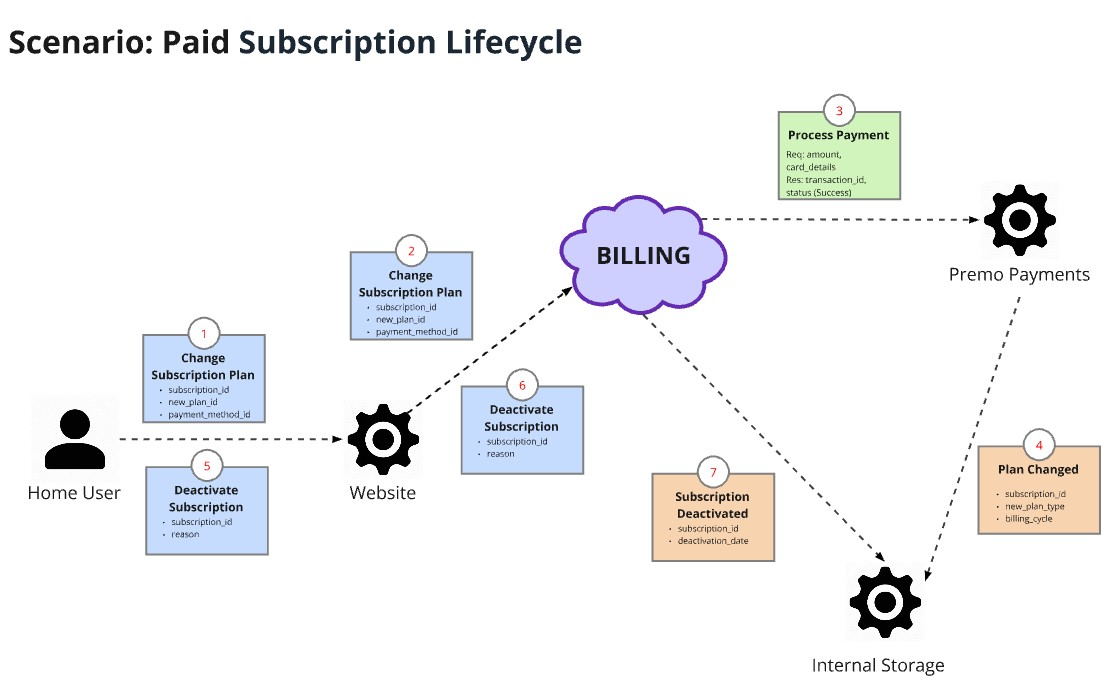
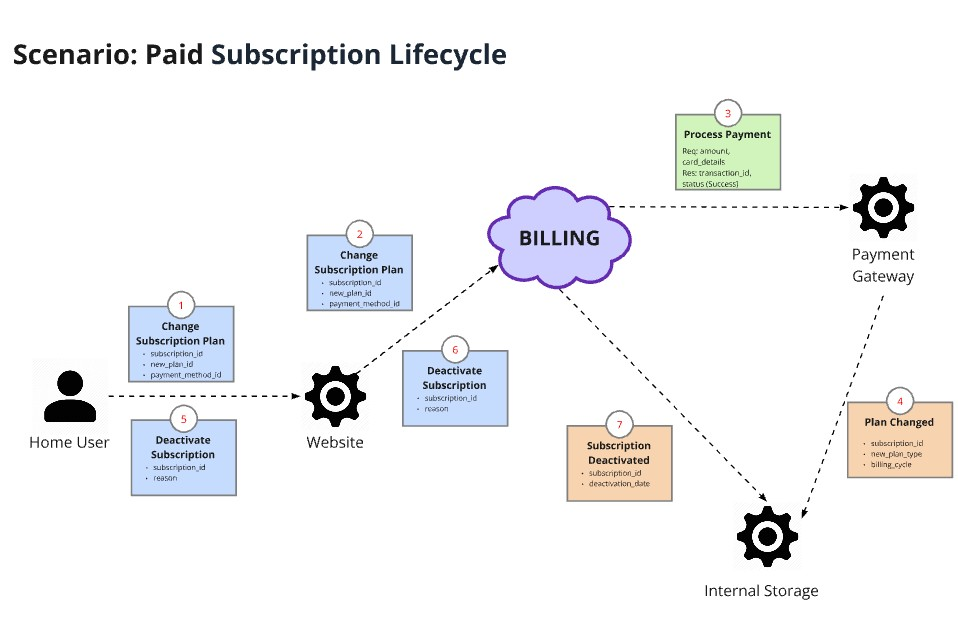
feat: add dmfm descriptions

diff --git a/chapters/chapter4.md b/chapters/chapter4.md
@@ -138,99 +138,165 @@ El tablero completo del  Candidate Context Discovery puede visualizarse en el si
 
 El Domain Message Flows Modeling mapea cómo los mensajes (eventos, comandos) fluyen entre los diferentes bounded contexts identificados. Este modelado es crucial para entender las dependencias y patrones de comunicación del sistema.
 
-Message Flows
+**User Registration and Access Activation**
+
 <p align="center">
 <img src="../assets/domain-message-flows/DMF1.jpg" alt="c4-container" width="700">
 </p>
+
+Esta vista muestra el workflow para el registro y activación de usuarios, destacando cómo el sistema IAM (Identity and Access Management) centraliza la seguridad y la gestión de sesiones. El proceso asegura el desacoplamiento de responsabilidades: la Website actúa como interfaz de captura, el IAM valida la identidad y el ciclo de vida de la cuenta, mientras que el Email Service gestiona la comunicación externa de forma independiente. Finalmente, el uso de tokens y la persistencia en el Internal Storage garantizan que solo los usuarios verificados obtengan acceso.
+
+**Login and Session Start**
 
 <p align="center">
 <img src="../assets/domain-message-flows/DMF2.jpg" alt="c4-container" width="700">
 </p>
 
+
+Esta vista detalla el proceso de Login e Inicio de Sesión, ilustrando cómo el sistema organiza la autenticación y la autorización mediante un componente central de IAM. El flujo comienza cuando el usuario proporciona sus credenciales a través de la Website, la cual delega la validación y la asignación de permisos por rol al IAM para garantizar un control de acceso seguro y centralizado. Una vez autenticado, el estado de la sesión se persiste en el Internal Storage, permitiendo que el usuario consulte servicios especializados como la Air Quality Evaluation en tiempo real, cuyas interacciones son registradas por el módulo de Analytics & Reporting para auditoría y análisis posterior.
+
+**Trial Subscription Lifecycle**
+
 <p align="center">
 <img src="../assets/domain-message-flows/DMF3.jpg" alt="c4-container" width="700">
 </p>
 
+Esta vista describe el ciclo de vida de una Suscripción de Prueba, mostrando cómo se gestiona la elegibilidad y activación mediante un servicio centralizado de Billing. El flujo comienza cuando el Home User solicita iniciar una prueba a través de la Website, la cual se encarga de validar la elegibilidad del usuario antes de procesar la solicitud con el módulo de facturación. Una vez que el servicio de Billing confirma el inicio de la suscripción, se genera un registro con el ID de suscripción y la fecha de expiración, información que se persiste finalmente en el Internal Storage para asegurar que el acceso temporal del usuario quede correctamente documentado y administrado.
+
+**Paid Subscription Lifecycle**
+
 <p align="center">
 <img src="../assets/domain-message-flows/DMF4.jpg" alt="c4-container" width="700">
 </p>
+Esta vista describe el Ciclo de Vida de la Suscripción de Pago, detallando los procesos de actualización y cancelación de servicios por parte del usuario. El flujo se inicia en la Website, que actúa como intermediaria para enviar solicitudes de cambio de plan o desactivación hacia el módulo de Billing. Para cambios de plan, el sistema coordina el procesamiento del pago a través de un Payment Gateway externo; una vez confirmado, o en caso de una desactivación, se actualiza el registro correspondiente en el Internal Storage para reflejar el nuevo estado de la suscripción y el ciclo de facturación actual del usuario.
+
+**Checkout and Payment Outcome**
 
 <p align="center">
 <img src="../assets/domain-message-flows/DMF5.jpg" alt="c4-container" width="700">
 </p>
 
-<p align="center">
-<img src="../assets/domain-message-flows/DMF1.jpg" alt="c4-container" width="700">
-</p>
+Esta vista describe el proceso de Checkout y Resultado de Pago, ilustrando cómo la plataforma integra la validación de identidad con la ejecución de servicios en tiempo real. El flujo inicia cuando el usuario se autentica a través de la Website, la cual coordina con el IAM para validar credenciales y obtener permisos específicos de rol que se persisten en el Internal Storage. Una vez establecida la sesión, el sistema permite la consulta de estados mediante la Air Quality Evaluation, cuyos resultados y tipos de consulta son registrados por el módulo de Analytics & Reporting para garantizar la trazabilidad y el análisis de cada transacción completada.
+
+**Facility and Space Setup**
 
 <p align="center">
 <img src="../assets/domain-message-flows/DMF6.jpg" alt="c4-container" width="700">
 </p>
+Esta vista detalla el proceso de Configuración de Instalaciones y Espacios, ilustrando cómo el sistema gestiona la creación de infraestructura bajo un esquema de control de acceso centralizado. El flujo comienza cuando el Facility Admin solicita la creación de una instalación a través de la Website, la cual coordina con el IAM para validar el rol administrativo y los límites de creación permitidos. Una vez autorizado, el módulo de Facility Management registra la instalación y permite la configuración de espacios específicos (interiores o exteriores), verificando siempre su existencia previa antes de persistir los detalles finales en el Internal Storage para asegurar una administración organizada y auditable.
+
+**Initial Device Setup**
 
 <p align="center">
 <img src="../assets/domain-message-flows/DMF7.jpg" alt="c4-container" width="700">
 </p>
+Esta vista describe el proceso de Configuración Inicial del Dispositivo, ilustrando cómo se vincula el hardware con la cuenta del usuario de forma segura. El flujo comienza cuando el Home User solicita el emparejamiento a través de la Website, la cual se comunica con el módulo de Device & Space Management para validar la propiedad y disponibilidad del modelo mediante su número de serie. Una vez que el dispositivo es reconocido y vinculado con éxito, el sistema confirma el registro y persiste los datos de la asociación en el Internal Storage, garantizando que el equipo esté listo para su monitoreo y gestión dentro del entorno del usuario.
+
+**Device Location Setup**
 
 <p align="center">
 <img src="../assets/domain-message-flows/DMF8.jpg" alt="c4-container" width="700">
 </p>
+Esta vista detalla el proceso de Configuración de la Ubicación del Dispositivo, donde se asigna un equipo específico a un entorno previamente definido. El flujo inicia cuando el usuario solicita la asignación a través de la Website, la cual interactúa con el módulo de Facility Management para verificar la disponibilidad y validez del espacio seleccionado. Una vez confirmada la ubicación, el servicio de Device Management procesa los detalles de la instalación y notas adicionales, persistiendo el registro final con su respectiva marca de tiempo en el Internal Storage para asegurar la trazabilidad geográfica del hardware.
+
+**Threshold Management**
 
 <p align="center">
 <img src="../assets/domain-message-flows/DMF9.jpg" alt="c4-container" width="700">
 </p>
 
+Esta vista describe el proceso de Gestión de Umbrales, donde se definen los límites de alerta para sensores de CO2, PM y temperatura. El flujo comienza cuando el usuario solicita un cambio de umbral a través de la Website, la cual coordina con el IAM para autorizar la operación según el rol y espacio asignado. Una vez validado, el servicio de Air Quality Evaluation actualiza los límites del espacio y evalúa posibles brechas en tiempo real mediante su lógica interna, persistiendo los nuevos umbrales y marcas de tiempo en el Internal Storage para el monitoreo continuo de la calidad del aire.
+
+**Telemetry Ingestion**
+
 <p align="center">
 <img src="../assets/domain-message-flows/DMF10.jpg" alt="c4-container" width="700">
 </p>
+Esta vista describe el proceso de Ingesta de Telemetría, describiendo cómo el sistema procesa los datos enviados por los sensores en tiempo real. El flujo comienza cuando el Sensor Device envía un lote de lecturas al módulo de Device & Space Management, el cual actúa como receptor central para organizar y persistir los datos de las métricas. Posteriormente, esta información se distribuye hacia el componente de Analytics & Reporting para su almacenamiento histórico en series de tiempo dentro del Internal Storage, y simultáneamente hacia la Air Quality Evaluation, donde se evalúa la calidad del aire actual para activar respuestas inmediatas basadas en las lecturas recibidas.
+
+**Telemetry Validation**
 
 <p align="center">
 <img src="../assets/domain-message-flows/DMF11.jpg" alt="c4-container" width="700">
 </p>
+Esta vista describe el proceso de Validación de Telemetría, donde el sistema asegura la integridad de los datos recibidos antes de su procesamiento. El flujo inicia en el módulo de Device & Space Management, que utiliza su lógica interna para validar el estado del dispositivo y la firma del payload. Si la lectura es válida, los datos limpios se envían a la Air Quality Evaluation para su análisis; de lo contrario, la lectura es rechazada y se registra el error en el Internal Storage para auditoría, garantizando que solo información confiable afecte las evaluaciones de calidad del aire.
+
+**Offline Reading Synchronization**
 
 <p align="center">
 <img src="../assets/domain-message-flows/DMF12.jpg" alt="c4-container" width="700">
 </p>
+Esta vista describe el proceso de Sincronización de Lecturas Offline, ilustrando cómo el sistema recupera la continuidad de los datos tras un periodo de desconexión del hardware. El flujo inicia cuando el Sensor Device recupera la conectividad y envía un lote de lecturas almacenadas localmente al módulo de Device & Space Management, el cual confirma la recepción del paquete de datos. Finalmente, el sistema procesa el lote para integrar la telemetría histórica en el Internal Storage, garantizando que el registro de métricas esté completo y sincronizado con la marca de tiempo correspondiente para evitar vacíos en el análisis de la calidad del aire.
+
+**Alerting & Response to Air Quality Evaluation**
 
 <p align="center">
 <img src="../assets/domain-message-flows/DMF13.jpg" alt="c4-container" width="700">
 </p>
+Esta vista ilustra el flujo de Alertas y Respuesta ante la Evaluación de Calidad del Aire, describiendo la reacción del sistema ante la detección de niveles críticos de CO2, PM o temperatura. El proceso se activa cuando el módulo de Air Quality Evaluation detecta un incumplimiento de umbrales, notificando al componente de Alerting & Response, el cual consulta al IAM para obtener las preferencias de contacto y canales de notificación del usuario. Finalmente, se despacha una notificación de emergencia de alta prioridad y se registra el evento en el Internal Storage, permitiendo una respuesta inmediata tanto a través de la lógica interna del sistema como mediante alertas directas a los administradores responsables.
+
+**Critical Alert Generation & Notification**
 
 <p align="center">
 <img src="../assets/domain-message-flows/DMF14.jpg" alt="c4-container" width="700">
 </p>
+Esta vista describe el proceso de Generación y Notificación de Alertas Críticas, ilustrando la respuesta automatizada del sistema ante eventos de alta severidad en la calidad del aire. El flujo se activa cuando el módulo de Air Quality Evaluation detecta una violación de umbral crítica, lo que dispara en el componente de Alerting & Response la creación de una alerta con estado "abierto" y su respectiva persistencia en el Internal Storage. Simultáneamente, se coordina el envío de una notificación por correo electrónico a través de un Email Provider externo, registrando el ID de entrega y la marca de tiempo para asegurar que los usuarios responsables reciban información inmediata sobre el estado del espacio monitoreado.
+
+**Alert Acknowledgement & Tracking**
 
 <p align="center">
 <img src="../assets/domain-message-flows/DMF15.jpg" alt="c4-container" width="700">
 </p>
+Esta vista ilustra el proceso de Reconocimiento y Seguimiento de Alertas, describiendo cómo el sistema gestiona la respuesta humana ante incidentes detectados. El flujo se activa cuando un usuario reconoce una alerta a través de la interfaz, lo que dispara en el componente de Alerting & Response el cambio de estado de la alerta a "en progreso", persistiendo esta actualización en el Internal Storage para asegurar la trazabilidad de la atención. Finalmente, el sistema interactúa con la lógica interna para actualizar el tablero de alertas activas del usuario, garantizando que el equipo responsable tenga una visibilidad en tiempo real de los eventos pendientes y aquellos que ya están siendo gestionados.
+
+**Corrective Action & Resolution**
 
 <p align="center">
 <img src="../assets/domain-message-flows/DMF16.jpg" alt="c4-container" width="700">
 </p>
+Esta vista ilustra el proceso de Acción Correctiva y Resolución, describiendo cómo el sistema y el usuario colaboran para cerrar incidentes de calidad del aire. El flujo comienza cuando el sistema envía un recordatorio de acción correctiva basado en el tiempo transcurrido, procesado por el módulo de Alerting & Response. Una vez que el usuario ejecuta y registra la resolución con sus respectivas notas, el sistema actualiza el estado de la alerta a "cerrado" en el Internal Storage y sincroniza el centro de notificaciones a través de la lógica interna, garantizando que el ciclo del incidente finalice de manera documentada y auditable.
+
+**Automatic Corrective Action Execution**
 
 <p align="center">
 <img src="../assets/domain-message-flows/DMF17.jpg" alt="c4-container" width="700">
 </p>
+Esta vista detalla el proceso de Ejecución Automática de Acciones Correctivas, ilustrando cómo el sistema responde de forma autónoma ante brechas críticas en la calidad del aire. El flujo se activa cuando el sistema detecta un nivel de CO2 persistente, lo que dispara en el componente de Alerting & Response una orden de ventilación de alta prioridad enviada directamente a los Smart Devices para abrir las ventanas inteligentes. Finalmente, una vez ejecutada la acción, el sistema confirma la apertura de los dispositivos y persiste el registro de la ejecución en el Internal Storage, garantizando una mitigación inmediata del riesgo sin necesidad de intervención manual.
+
+**Manual Corrective Action Selection**
 
 <p align="center">
 <img src="../assets/domain-message-flows/DMF18.jpg" alt="c4-container" width="700">
 </p>
+Esta vista detalla el proceso de Selección Manual de Acción Correctiva, ilustrando cómo el usuario puede intervenir directamente para mitigar problemas de calidad del aire. El flujo inicia cuando el User selecciona un tipo de acción específica a través del componente de Alerting & Response, el cual valida la coherencia de la solicitud con el estado actual del entorno mediante su lógica interna. Una vez confirmada la validez y registrado el comando con un indicador de anulación manual en el Internal Storage, el sistema procede a la ejecución inmediata sobre los Smart Devices, asegurando que la respuesta del sistema se adapte a las necesidades puntuales detectadas por el operador.
+
+**Corrective Action Recording & Timeline**
 
 <p align="center">
 <img src="../assets/domain-message-flows/DMF19.jpg" alt="c4-container" width="700">
 </p>
+Esta vista ilustra el proceso de Registro y Cronología de Acciones Correctivas, detallando cómo el sistema documenta cada intervención para mantener un historial preciso de mitigación. El flujo comienza en el módulo de Alerting & Response, que inicia el registro de la acción capturando métricas iniciales y marcas de tiempo en el Internal Storage. Una vez finalizada la intervención, se procesan los datos del cierre, lo que permite al sistema actualizar la línea de tiempo de acciones correctivas dentro del almacenamiento interno, garantizando que cada evento sea auditable y contribuya al análisis de efectividad de las respuestas ante incidentes.
+
+**Automated Data Aggregation & Digest Generation**
 
 <p align="center">
 <img src="../assets/domain-message-flows/DMF20.jpg" alt="c4-container" width="700">
 </p>
+Esta vista describe el proceso de Agregación Automática de Datos y Generación de Resúmenes, ilustrando cómo el sistema transforma la telemetría histórica en información accionable para el usuario. El flujo se activa cuando el sistema solicita la agregación de datos de las últimas 24 horas al módulo de Analytics & Reporting, el cual consulta las reglas de agregación mediante la lógica interna para procesar la información almacenada en el Internal Storage. Finalmente, el sistema genera un resumen diario personalizado por dispositivo y notifica su disponibilidad a través del Notifications Center, asegurando que el usuario tenga acceso a un análisis consolidado de la calidad del aire sin necesidad de revisar lecturas individuales.
+
+**Strategic Insight Identification**
 
 <p align="center">
 <img src="../assets/domain-message-flows/DMF21.jpg" alt="c4-container" width="700">
 </p>
+Esta vista describe el proceso de Identificación de Insights Estratégicos, ilustrando cómo el sistema utiliza el análisis de datos para optimizar el bienestar en los espacios monitoreados. El flujo comienza cuando el sistema solicita identificar la mejor hora de ventilación al módulo de Analytics & Reporting, el cual procesa métricas de rendimiento  almacenadas en el Internal Storage. Una vez identificada la hora óptima con un alto puntaje de confianza, el componente utiliza la lógica interna para generar una recomendación específica de ventilación para el espacio, permitiendo una gestión proactiva y eficiente de la calidad del aire basada en patrones históricos de los últimos 7 días.
+
+**On-Demand Historical Reporting & Access Control**
 
 <p align="center">
 <img src="../assets/domain-message-flows/DMF22.jpg" alt="c4-container" width="700">
 </p>
-
+Esta vista describe el proceso de Reportes Históricos bajo Demanda y Control de Acceso, detallando cómo el sistema restringe o permite la visualización de tendencias según el plan del usuario. El flujo inicia cuando el usuario solicita una vista de tendencias mensuales al módulo de Analytics & Reporting, el cual coordina con la Internal Logic para verificar los permisos de visibilidad y límites del plan actual. Si el acceso es autorizado, se genera el reporte y se notifica al usuario a través del Notifications Center; de lo contrario, la previsualización se bloquea indicando que se ha alcanzado el límite del plan gratuito, garantizando así la integridad del modelo de suscripción mientras se recuperan los datos del Internal Storage.
 
 #### 4.1.1.3 Bounded Context Canvases.
 
